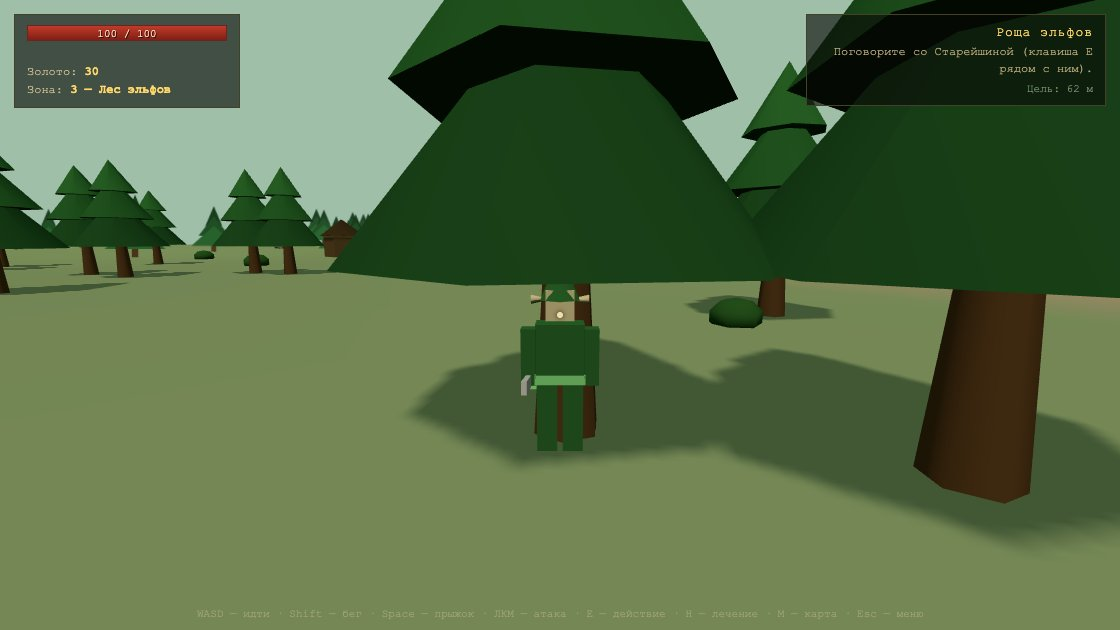
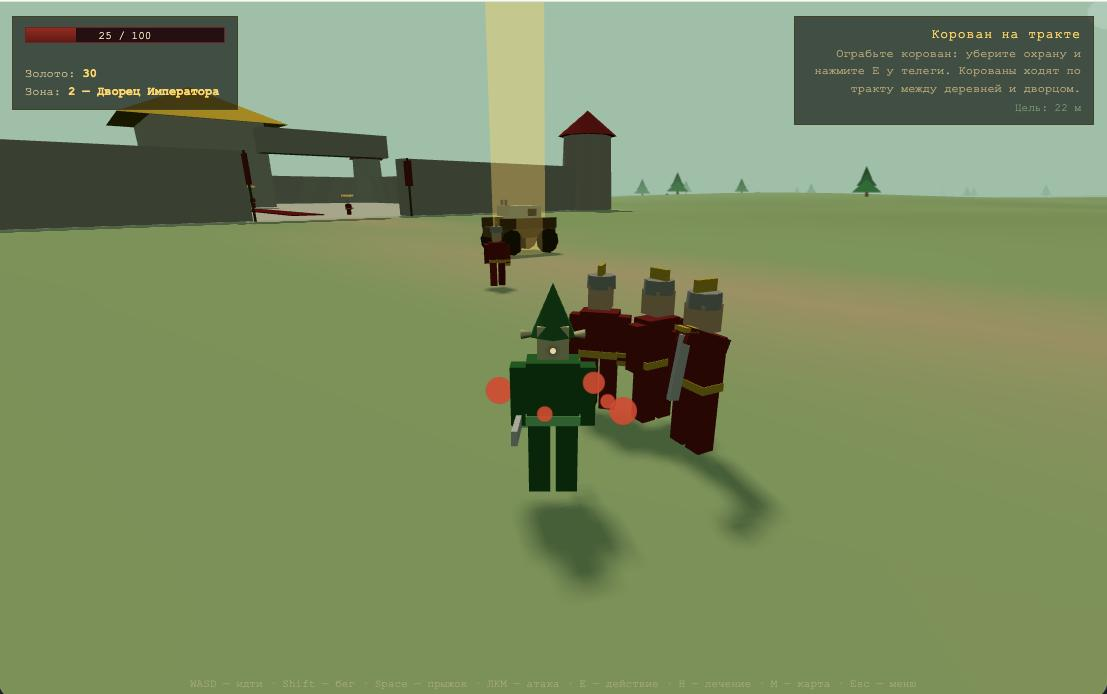
Use the caravan shot for the Kimi K3 card

diff --git a/index.html b/index.html
@@ -37,7 +37,7 @@
     P.S. Я джва года хочу такую игру.»</div>
   <div class="variants">
     <a class="variant sota" href="kimi-k3/">
-      <img src="kimi_3_5_screen.jpg" alt="Скриншот Kimi K3: эльф на опушке густого LOD-леса" loading="lazy">
+      <img src="kimi_3_5_screen.jpg" alt="Скриншот Kimi K3: эльф в густом LOD-лесу и корован" loading="lazy">
       <b>Kimi K3 <small class="sota-badge">SOTA</small></b>
       <time datetime="2026-07-22T11:46:00+03:00">22 июля 2026 · 11:46</time>
       <span>Three.js 3D-экшон от 3-го лица: эльфы / охрана дворца / Злой, 4 зоны,
